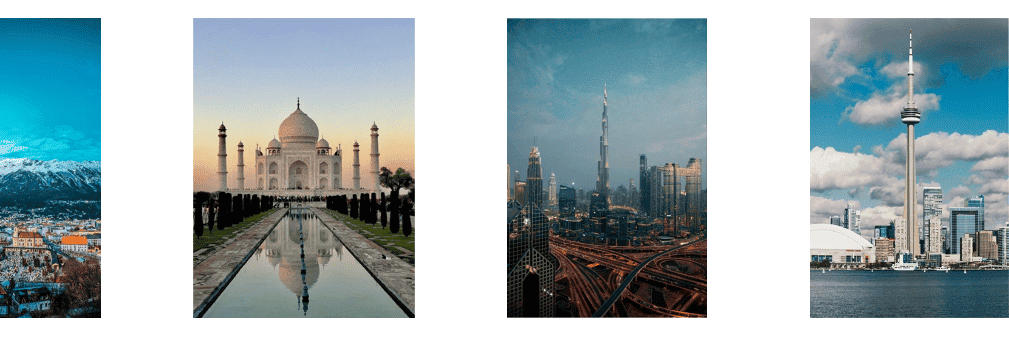
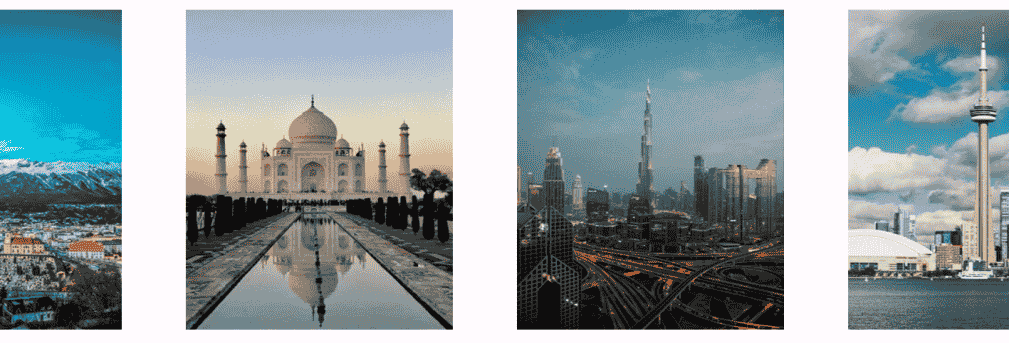
Revamping UG SfCarousel content in hotfix

diff --git a/MAUI/Carousel-View/LoadMore.md b/MAUI/Carousel-View/LoadMore.md
@@ -35,6 +35,10 @@ N>The default value of the [AllowLoadMore](https://help.syncfusion.com/cr/maui/S
 
 <carousel:SfCarousel x:Name="carousel"
                      ItemsSource="{Binding ImageCollection}"
+                     ItemTemplate="{StaticResource itemTemplate}"
+                     ItemHeight="200"
+                     ItemWidth="200"
+                     ItemSpacing="2" 
                      AllowLoadMore="True"
                      ViewMode="Linear">
 </carousel:SfCarousel>
@@ -68,6 +72,9 @@ N>The default value of the [LoadMoreItemsCount](https://help.syncfusion.com/cr/m
 
 <carousel:SfCarousel x:Name="carousel"
                      ItemsSource="{Binding ImageCollection}"
+                     ItemTemplate="{StaticResource itemTemplate}"
+                     ItemHeight="200"
+                     ItemWidth="200"
                      ItemSpacing="2"
                      AllowLoadMore="True"
                      ViewMode="Linear"
@@ -101,9 +108,9 @@ Custom view can be passed instead of the [LoadMore](https://help.syncfusion.com/
 
 {% highlight xaml %}
 
-<ContentPage.Content>
 <carousel:SfCarousel x:Name="carousel"
     ItemsSource="{Binding ImageCollection}"
+    ItemTemplate="{StaticResource itemTemplate}"
     ItemHeight="200"
     ItemWidth="200"
     ItemSpacing="2"
@@ -176,14 +183,16 @@ To load more items programmatically, the [LoadMore](https://help.syncfusion.com/
 
 {% highlight xaml %}
 
-<StackLayout>
     <carousel:SfCarousel x:Name="carousel"
                          ItemsSource="{Binding ImageCollection}"
+                         ItemTemplate="{StaticResource itemTemplate}"
+                         ItemHeight="200"
+                         ItemWidth="200"
+                         ItemSpacing="2" 
                          ViewMode="Default"
                          LoadMoreItemsCount="2" />
     <Button Text="LoadMore Method" 
             Clicked="Button_Clicked"/>
-</StackLayout>
 	
 {% endhighlight %}
 

diff --git a/MAUI/Carousel-View/Linear-Arrangement.md b/MAUI/Carousel-View/Linear-Arrangement.md
@@ -17,15 +17,35 @@ The Carousel items can be populated in the view in a stacked linear layout by se
 
 <carousel:SfCarousel x:Name="carousel"  
                      ItemsSource="{Binding ImageCollection}" 
+                     ItemTemplate="{StaticResource itemTemplate}" 
+                     ItemHeight="200"
+                     ItemWidth="200"
+                     ItemSpacing="2"
                      ViewMode="Linear"/>
 	
 {% endhighlight %}
 
 {% highlight C# %}
 
-SfCarousel carousel = new SfCarousel();
+CarouselViewModel carouselViewModel = new CarouselViewModel();
+SfCarousel carousel = new SfCarousel()
+{
+    ItemHeight = 200,
+    ItemWidth = 200,
+    ItemSpacing = 2,
+    ViewMode = ViewMode.Linear
+};
+var itemTemplate = new DataTemplate(() =>
+{
+    var grid = new Grid();
+    var nameLabel = new Image();
+    nameLabel.SetBinding(Image.SourceProperty, "Image");
+    grid.Children.Add(nameLabel);
+    return grid;
+});
+carousel.BindingContext = carouselViewModel;
+carousel.ItemTemplate = itemTemplate;
 carousel.SetBinding(SfCarousel.ItemsSourceProperty, "ImageCollection");
-carousel.ViewMode = ViewMode.Linear;
 
 {% endhighlight %}
 

diff --git a/MAUI/Carousel-View/UIVirtualization.md b/MAUI/Carousel-View/UIVirtualization.md
@@ -27,6 +27,7 @@ N> The default value of the [EnableVirtualization](https://help.syncfusion.com/c
 
 <carousel:SfCarousel x:Name="carousel"
                      ItemsSource="{Binding ImageCollection}"
+                     ItemTemplate="{StaticResource itemTemplate}" 
                      ItemHeight="200"
                      ItemWidth="200"
                      ItemSpacing="2"
@@ -38,6 +39,7 @@ N> The default value of the [EnableVirtualization](https://help.syncfusion.com/c
 
 {% highlight c# %}
 
+CarouselViewModel carouselViewModel = new CarouselViewModel();
 SfCarousel carousel = new SfCarousel()
 {
     ItemHeight = 200,
@@ -47,6 +49,16 @@ SfCarousel carousel = new SfCarousel()
     ViewMode = ViewMode.Linear
 };
 
+var itemTemplate = new DataTemplate(() =>
+{
+    var grid = new Grid();
+    var nameLabel = new Image();
+    nameLabel.SetBinding(Image.SourceProperty, "Image");
+    grid.Children.Add(nameLabel);
+    return grid;
+});
+carousel.BindingContext = carouselViewModel;
+carousel.ItemTemplate = itemTemplate;
 carousel.SetBinding(SfCarousel.ItemsSourceProperty, "ImageCollection");
 
 {% endhighlight %}

diff --git a/MAUI/Carousel-View/Transformation.md b/MAUI/Carousel-View/Transformation.md
@@ -123,6 +123,7 @@ The [ScaleOffset](https://help.syncfusion.com/cr/maui/Syncfusion.Maui.Carousel.S
 
 <carousel:SfCarousel x:Name="carousel"
                      ItemsSource="{Binding ImageCollection}"
+                     ItemTemplate="{StaticResource itemTemplate}" 
                      ItemHeight="200"
                      ItemWidth="200"
                      ScaleOffset="0.5"/>
@@ -156,6 +157,7 @@ Spacing of all the items in Linear mode can be determined by using [ItemSpacing]
 
 <carousel:SfCarousel x:Name="carousel"
                      ItemsSource="{Binding ImageCollection}"
+                     ItemTemplate="{StaticResource itemTemplate}" 
                      ItemHeight="200"
                      ItemWidth="200"
                      ItemSpacing="60"

diff --git a/MAUI/Carousel-View/Populating-Data.md b/MAUI/Carousel-View/Populating-Data.md
@@ -101,6 +101,9 @@ namespace CarouselSample
         <carousel:SfCarousel x:Name="carousel"  
                              ItemTemplate="{StaticResource itemTemplate}" 
                              ItemsSource="{Binding ImageCollection}" 
+                             ItemHeight="200"
+                             ItemWidth="200"
+                             ItemSpacing="2" 
                              HeightRequest="400" 
                              WidthRequest="800" />
     </ContentPage.Content>

diff --git a/MAUI/Carousel-View/how-to.md b/MAUI/Carousel-View/how-to.md
@@ -17,6 +17,7 @@ We can perform the operation while changing the CarouselItem using the [Selectio
 
 <carousel:SfCarousel x:Name="carousel"
                      ItemsSource="{Binding ImageCollection}"
+                     ItemTemplate="{StaticResource itemTemplate}" 
                      ItemHeight="200"
                      ItemWidth="200"
                      SelectionChanged="Carousel_SelectionChanged"/>

diff --git a/MAUI/Carousel-View/SwipeEvents.md b/MAUI/Carousel-View/SwipeEvents.md
@@ -27,6 +27,7 @@ The [SwipeEnded](https://help.syncfusion.com/cr/maui/Syncfusion.Maui.Carousel.Sf
     SwipeStarted="carousel_SwipeStarted"
     SwipeEnded="carousel_SwipeEnded"
     ItemsSource="{Binding ImageCollection}"
+    ItemTemplate="{StaticResource itemTemplate}" 
     ItemHeight="200"
     ItemWidth="200"
     ItemSpacing="2"
